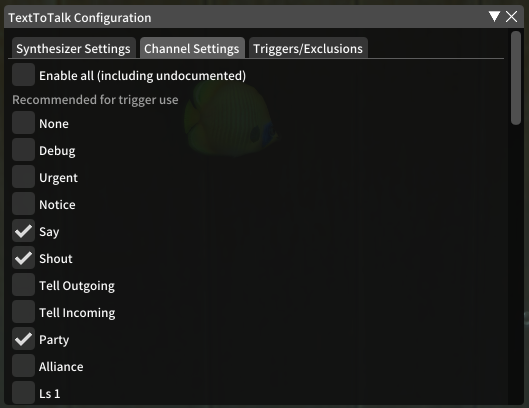
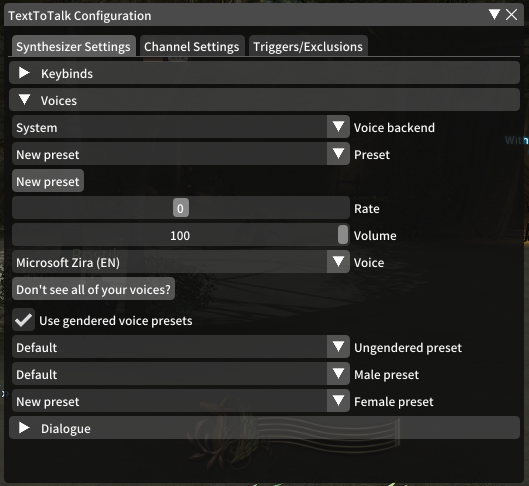
update README

diff --git a/README.md b/README.md
@@ -1,5 +1,5 @@
 # TextToTalk
-Chat TTS plugin for [Dalamud](https://github.com/goatcorp/Dalamud). Has support for triggers/exclusions, and WebSocket support for external interfacing.
+Chat TTS plugin for [Dalamud](https://github.com/goatcorp/Dalamud). Has support for triggers/exclusions, Amazon Polly, and external interfacing over WebSocket.
 
 ## Commands
 * `/tttconfig`: Opens the configuration window.
@@ -15,7 +15,8 @@ TTS prompt:
 ```
 {
 	"Type": "Say",
-	"Payload": "Someone someone says something"
+	"Payload": "Someone someone says something",
+	"SpeakerGender": 1
 }
 ```
 
@@ -23,13 +24,17 @@ TTS cancel:
 ```
 {
 	"Type": "Cancel",
-	"Payload": ""
+	"Payload": "",
+	"SpeakerGender": -1
 }
 ```
 
-The WebSocket address is shown under the configuration checkbox.
+The WebSocket address is shown under the configuration checkbox. Gender codes can be found in [`Gender.cs`](https://github.com/karashiiro/TextToTalk/blob/master/TextToTalk/GameEnums/Gender.cs).
 
 ## Screenshots
 ![Screenshot](https://raw.githubusercontent.com/karashiiro/TextToTalk/master/Assets/0.png)
 ![Screenshot](https://raw.githubusercontent.com/karashiiro/TextToTalk/master/Assets/1.png)
 ![Screenshot](https://raw.githubusercontent.com/karashiiro/TextToTalk/master/Assets/2.png)
+![Screenshot](https://raw.githubusercontent.com/karashiiro/TextToTalk/master/Assets/3.png)
+![Screenshot](https://raw.githubusercontent.com/karashiiro/TextToTalk/master/Assets/4.png)
+![Screenshot](https://raw.githubusercontent.com/karashiiro/TextToTalk/master/Assets/5.png)
